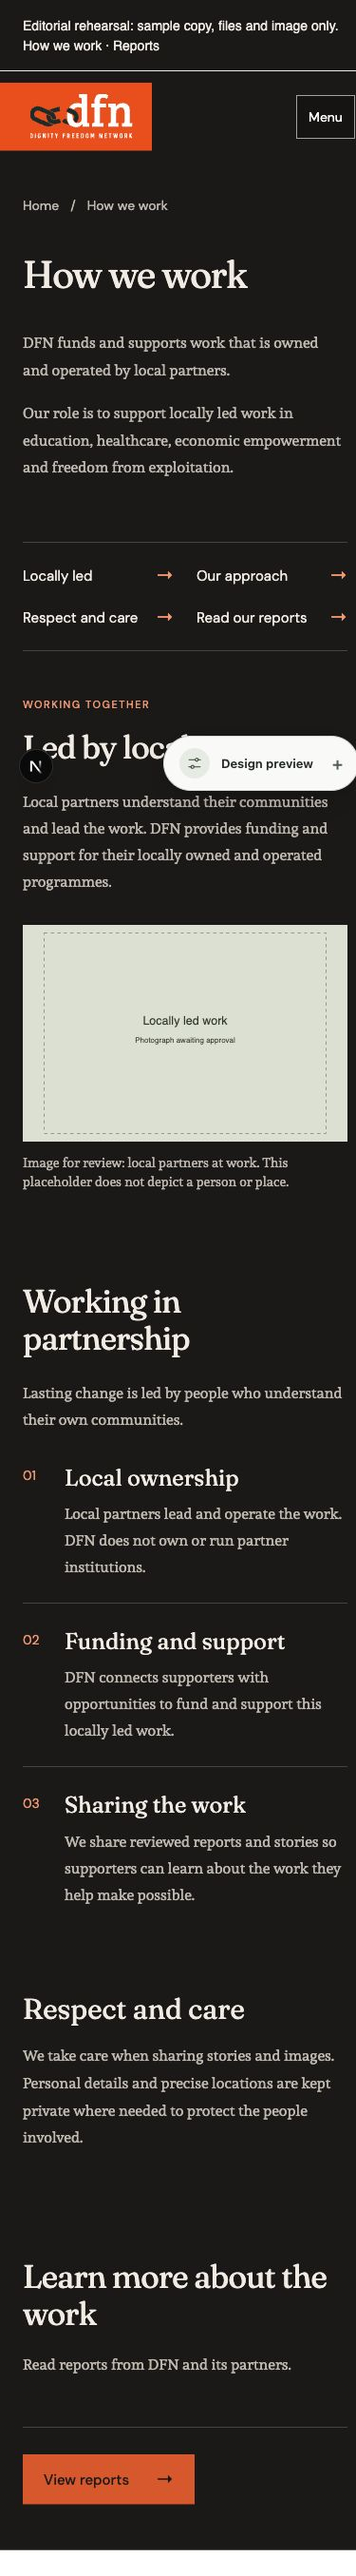
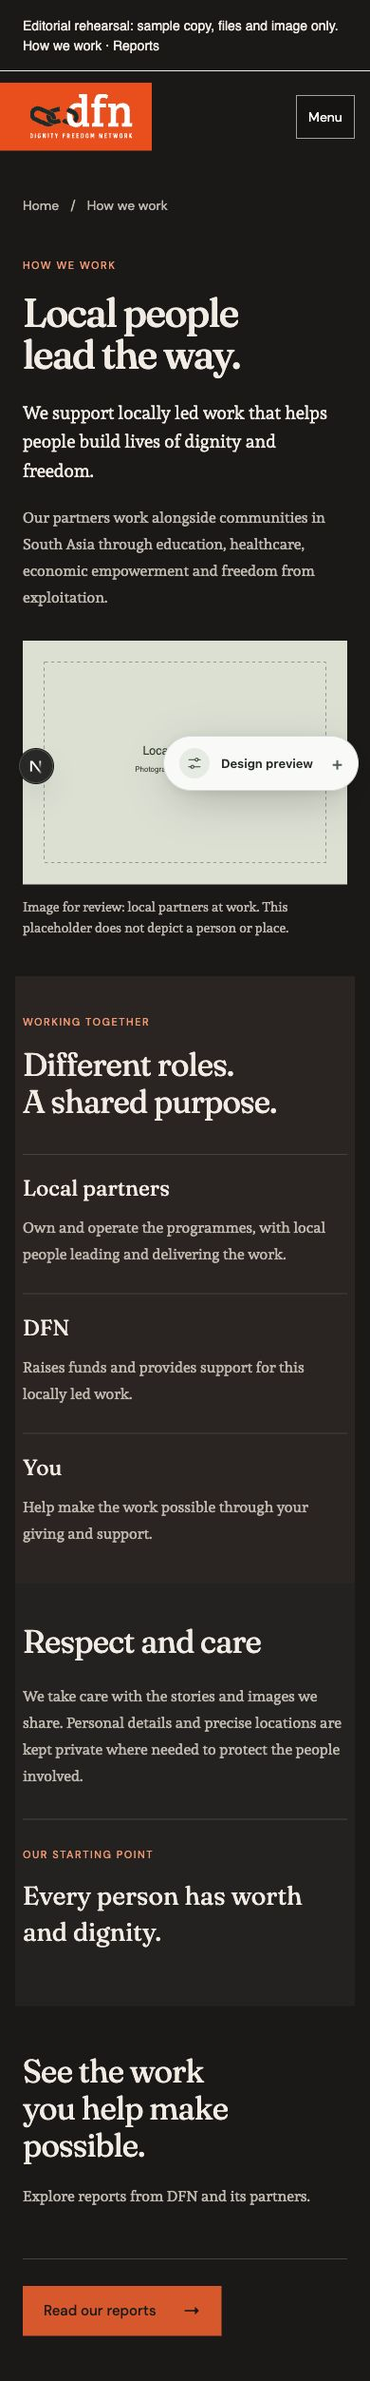
feat: refine How we work page composition

diff --git a/apps/web/src/components/page-sections/download-list.test.tsx b/apps/web/src/components/page-sections/download-list.test.tsx
@@ -105,7 +105,7 @@ describe("Page pilot downloads", () => {
 		expect(doc.body.innerHTML).not.toContain("javascript:");
 		expect(doc.body.textContent).not.toContain("Invalid Date");
 	});
-	it("composes How we work with one title, image context, section navigation and the Reports action", async () => {
+	it("composes How we work with one title, image context, distinct roles and the Reports action", async () => {
 		const doc = await render("how-we-work");
 		expect(doc.querySelectorAll("h1")).toHaveLength(1);
 		expect(
@@ -115,15 +115,14 @@ describe("Page pilot downloads", () => {
 			"placeholder",
 		);
 		expect(doc.body.textContent).toContain("does not depict a person or place");
-		for (const link of doc.querySelectorAll(
-			'nav[aria-label="On this page"] a',
-		)) {
-			expect(
-				doc.getElementById(link.getAttribute("href")?.slice(1) ?? ""),
-			).not.toBeNull();
-		}
+		expect(
+			[...doc.querySelectorAll("dt")].map((item) => item.textContent),
+		).toEqual(["Local partners", "DFN", "You"]);
+		expect(doc.querySelector("#privacy")?.textContent).toContain(
+			"Every person has worth and dignity.",
+		);
 		expect(doc.querySelector('a[href^="/reports"]')?.textContent).toContain(
-			"View reports",
+			"Read our reports",
 		);
 	});
 });

diff --git a/apps/web/src/components/page-sections/render-sections.tsx b/apps/web/src/components/page-sections/render-sections.tsx
@@ -350,7 +350,7 @@ export function RenderSections({
 									</div>
 									<Body value={section.body} />
 								</div>
-								<dl className="grid gap-7 @tablet:grid-cols-2 @desktop:grid-cols-3 @desktop:gap-6 @wide:grid-cols-5">
+								<dl className="grid gap-7 @tablet:grid-cols-[repeat(auto-fit,minmax(180px,1fr))] @desktop:gap-8">
 									{(section.items ?? []).map((item) => (
 										<div key={item._key} className="border-t border-rule pt-5">
 											<dt className="mb-3 font-display text-[23px] leading-[1.3]">

diff --git a/docs/review/87-page-pilots.md b/docs/review/87-page-pilots.md
@@ -2,6 +2,16 @@
 
 Prepared 19 November 2026 for [#87](https://github.com/dfn-au/dfn-web/issues/87). Kat owns content approval. This is a review of page composition and the reusable download list; it does not publish either page.
 
+## Current design direction
+
+Revised on 19 November 2026 after Andrew clarified that his concern about “Respect and care” was its visual treatment. Keep the section. The page now uses an introduction with a photo, three equal columns explaining local partners / DFN / supporters, a full-width Statement panel for respect and care, and one Reports action. The short page no longer needs an On this page menu. All four sections already exist in the Page builder.
+
+Retain warm charcoal, Fraunces headings, Andada body text and original labels, following [Kat’s reviewed preferences](https://github.com/dfn-au/dfn-web/pull/75#issuecomment-6434735501). Those later preferences supersede the earlier unapproved experiment; the light palette remains an optional comparison, not the selected direction.
+
+The revised wording draws on the [existing homepage’s locally led approach](https://dfn.org.au/) and the [About page’s dignity, freedom and equal-worth values](https://dfn.org.au/about/), read on 19 November 2026, within Kat’s newer communication constraints. It is newly drafted copy for review, not a quotation or final approval. “Every person has worth and dignity” is a paraphrase of the existing dignity value. The protection paragraph retains the original meaning.
+
+Also considered: merely enlarging the old rich-text heading would leave it isolated; a new component is unnecessary because the existing Statement block supports the two-column treatment. Changing to a light theme would disregard Kat’s selected palette.
+
 ## Open the pilots
 
 From this checkout, run:
@@ -25,7 +35,7 @@ Use a separate review dataset. Create two ordinary **Pages**, choose **Australia
 
 | Page | Sections, in order | Review purpose |
 | --- | --- | --- |
-| How we work (`how-we-work`) | Page title; Rich text; On this page; Text with image; Numbered items; Rich text; Call to action | Explain local ownership and DFN's supporting role, then link to Reports. |
+| How we work (`how-we-work`) | Introduction with image; Values (local partners, DFN, supporters); Statement (Respect and care); Call to action | Explain local ownership and DFN's supporting role, then link to Reports. |
 | Reports (`reports`) | Page title; Rich text; On this page; Download list: Annual reports; Download list: About our work | Demonstrate an ordered report library and a single booklet using the same section. |
 
 All sample field values are in `apps/web/review/fixtures.json`. The source is readable JSON in the same shape as authored Sanity documents. Use the sample copy as a draft, not as approved publication text. Replace the placeholder with an approved uploaded image and the sample files with approved uploaded reports or permanent public resource URLs. Never import the synthetic asset references or localhost links.
@@ -41,20 +51,20 @@ Captured from the isolated fixture application on 19 November 2026:
 - [How we work, desktop](87-evidence/how-we-work-desktop.jpg) and [390px mobile](87-evidence/how-we-work-mobile.jpg).
 - [Reports, desktop](87-evidence/reports-desktop.jpg) and [390px mobile](87-evidence/reports-mobile.jpg).
 
-Signed-in private-dataset evidence: [How we work in Presentation](87-evidence/studio-how-we-work.jpg), [Reports in Presentation](87-evidence/studio-reports.jpg) and [reordered download entries](87-evidence/studio-reports-reordered.jpg).
+The following signed-in evidence records the earlier composition and authoring checks; the current design is shown in the desktop/mobile screenshots above. Private-dataset evidence: [How we work in Presentation](87-evidence/studio-how-we-work.jpg), [Reports in Presentation](87-evidence/studio-reports.jpg) and [reordered download entries](87-evidence/studio-reports-reordered.jpg).
 
 ## Copy, files and image sources
 
 | Material | Source and status | Kat's review |
 | --- | --- | --- |
 | Page intent and local ownership/funding distinction | [Kat's proposed launch brief](https://github.com/user-attachments/files/34295870/dfn-proposed-launch-sitemap.md), sections 4, 7 and 8; proposal attached to [#7](https://github.com/dfn-au/dfn-web/issues/7). Read in full on 19 November 2026. | Confirm the draft describes DFN's role accurately and supplies enough detail. All pilot sentences are newly written for this rehearsal. |
-| How we work copy | Short paraphrases of that brief. No personal stories, named institutions, locations, statistics or funding amounts. | Review the headline, programme terminology, partnership explanation and privacy wording against the full communications guidance. |
+| How we work copy | New draft based on that brief and the current public Home/About pages, with only broad South Asia geography. No personal stories, named institutions, precise locations, statistics or funding amounts. | Review the headline, programme terminology, partnership explanation and privacy wording against the full communications guidance. |
 | Annual report titles/dates and booklet | Invented, explicitly labelled samples. No legacy report has been copied, linked or cleared for republication. | Select the actual files; verify title, reporting period, publication date, country eligibility and all content inside each file before upload. Leave dates blank when unknown. |
 | How we work image | Neutral SVG placeholder made for the rehearsal. No documentary image or private source URL is included. | Approve a relevant photo, crop, caption, alt text and permission before replacing it. Photography selection belongs to [#88](https://github.com/dfn-au/dfn-web/issues/88). |
 
 ### Image slot
 
-Use **Text with image**, after the introduction and section navigation, beside “Led by local partners”. The current block uses a 3:2 frame on desktop and mobile. Prefer a scene that shows people doing or sharing practical work, with enough space to retain the relevant people, hands and activity in that crop. Keep a plain text opening rather than forcing the photograph into a banner.
+Use **Introduction with image**, beside “Local people lead the way”. The existing block uses a 6:5 frame on desktop and 4:3 on mobile. The revised layout replaces the earlier 3:2 slot. Review the provisional selection at both crops before approval, retaining the relevant people, hands and activity. There is no text over the photograph.
 
 The photography worker has a provisional private selection and context questions under #88. It is not approved for publication. Its private reference and permission checks are in the local photography handoff; they are deliberately absent from this repository and preview. Do not label a photograph as a particular partner's work or attach it to a person's story unless that context is confirmed. Write alt text from visible content; review any readable signs or badges and the exported filename/metadata as well as the caption.
 
